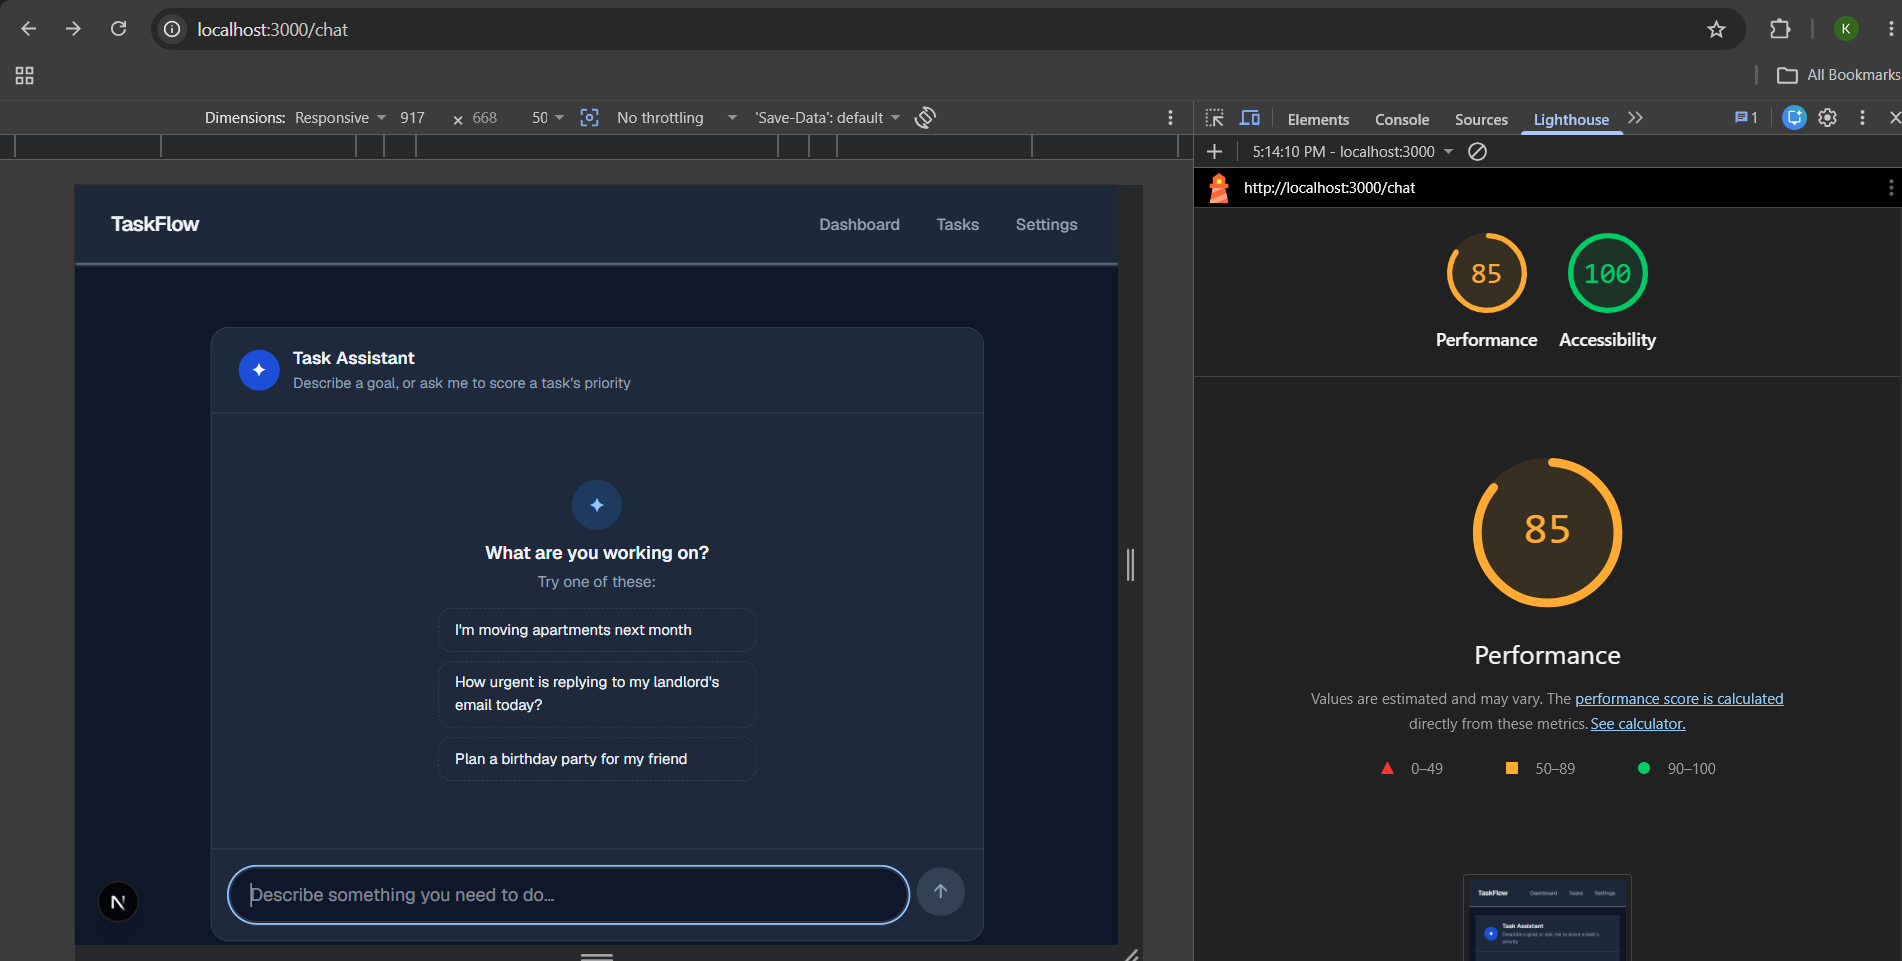
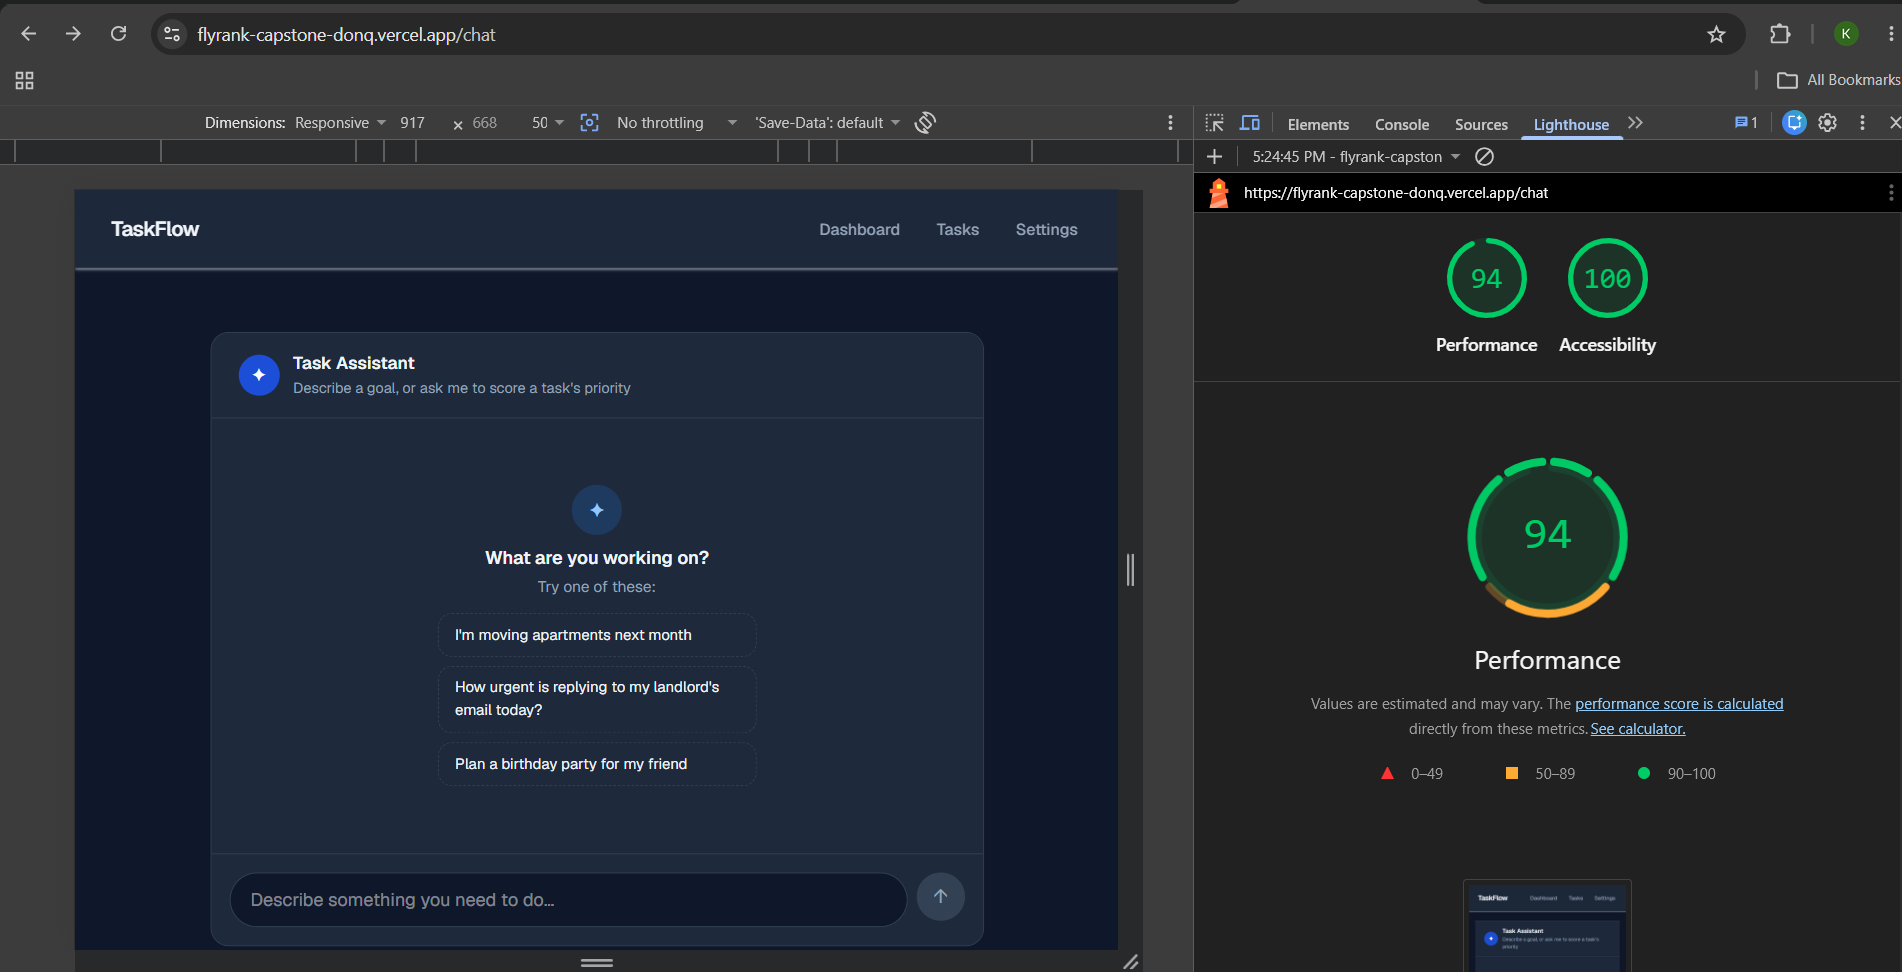
Add FE-10 accessibility and performance audit

diff --git a/capstone-task-manager/AUDIT.md b/capstone-task-manager/AUDIT.md
@@ -1,0 +1,116 @@
+# FE-10: Accessibility and Performance Audit
+
+**App audited:** TaskFlow (capstone-task-manager)
+**Live URL:** https://flyrank-capstone-donq.vercel.app
+**Pages audited:** Dashboard (`/`) and Chat (`/chat`)
+**Tools used:** Lighthouse (Mobile preset, Chrome DevTools), WAVE (WebAIM browser extension), manual keyboard-only pass
+
+---
+
+## 1. Baseline (before)
+
+| Page | Lighthouse Performance | Lighthouse Accessibility | WAVE Errors | WAVE Alerts |
+|---|---|---|---|---|
+| Dashboard | 97 | 95 | 0 | 4 (3 contrast, 1 heading×3 counted separately, 1 redundant link) |
+| Chat | 87 | 100 | 1 | 2 |
+
+Screenshots: `audit/audit-before-lighthouse-home.png`, `audit/before-lighthouse-chat.png`, `audit/before-wave-home.png`, `audit/before-wave-chat.png`
+
+### Issues found
+
+**Dashboard — 3 contrast errors (WAVE):**
+1. "Chat with AI Assistant" button — white text on `var(--accent)` background, 3.68:1 (needs 4.5:1)
+2. "Dashboard" active nav pill — text on accent-soft background, 3.12:1
+3. "OVERVIEW" eyebrow label — accent-colored text on surface background, 3.97:1
+
+Root cause: a single `--accent` CSS variable (dark mode: `#3b82f6`) was being reused both as a *text* color (needs to be lighter for sufficient contrast against dark backgrounds) and as a *solid button background* under white text (needs to be darker for white text to read clearly). No single color value can satisfy both WCAG AA thresholds simultaneously — this was confirmed with contrast-ratio math before choosing replacement colors.
+
+**Dashboard — 1 redundant link alert (WAVE):** the "TaskFlow" logo and the "Dashboard" nav item are adjacent links pointing to the same URL (`/`).
+
+**Dashboard — 3 "possible heading" alerts (WAVE):** the bold `0` values under Total Tasks / Completed / Pending read visually like headings but aren't marked up with heading tags.
+
+**Chat — 1 missing form label error (WAVE):** the message input had only a `placeholder`, no accessible name (`aria-label`, `id`+`<label>`, or `aria-labelledby`).
+
+**Chat — no `aria-live` region:** streamed assistant responses were not announced to screen reader users as they arrived (an explicit FE-10 requirement for AI-specific accessibility).
+
+**Chat — 1 "no heading structure" alert (WAVE):** unlike the Dashboard (which has an `<h1>Dashboard</h1>`), the Chat page has no heading at all.
+
+---
+
+## 2. Fixes applied
+
+### Contrast (Dashboard, 3 errors → 0)
+Split the single `--accent` variable into two purpose-built variables in `app/globals.css`:
+- `--accent` (dark mode: `#93c5fd`) — kept for text-only usage (labels, icons, borders), now with enough luminance to read clearly against dark backgrounds and surfaces.
+- `--accent-solid` (dark mode: `#1d4ed8`) — new variable for solid backgrounds paired with white text (buttons, avatars, active states), dark enough that white text clears 4.5:1 comfortably (~6.7:1).
+
+Every CSS rule that used `var(--accent)` as a **background** under white text was switched to `var(--accent-solid)`: `.dashboard-chat-link`, `.chat-header-icon`, `.chat-avatar-assistant`, `.chat-message-user .chat-bubble`, `.chat-send-button`, `.tool-confirm-yes`, `.mbtn` (and its loading state). One additional instance was found and fixed directly in `app/page.tsx`, where the dashboard CTA button used a Tailwind arbitrary-value class (`bg-[var(--accent)]`) outside the shared CSS file — updated to `bg-[var(--accent-solid)]`.
+
+Light mode was unaffected (its existing accent color already cleared both contrast checks) — a matching `--accent-solid` variable was added there too, set equal to the existing accent, purely for consistency across the codebase.
+
+### Redundant link (Dashboard)
+Added `aria-hidden="true"` and `tabIndex={-1}` to the "TaskFlow" logo link in `TopNav.tsx`, since the adjacent "Dashboard" nav item already provides a properly labeled, keyboard-reachable path to the same destination. This removes the duplicate from the accessibility tree and tab order while leaving the logo visually and functionally unchanged for mouse users.
+
+*Note:* WAVE continued to flag this after the fix, because the link is still present in the DOM (just hidden from assistive tech). We're documenting this as **justified** rather than pursuing further changes: the actual accessibility impact is zero, since a screen reader or keyboard user can no longer reach or hear the duplicate link — this is standard practice on the vast majority of production sites (logo linking home + a "Home"/"Dashboard" nav item).
+
+### Missing form label (Chat, 1 error → 0)
+Added `aria-label="Describe something you need to do"` to the chat message `<input>` in `components/Chat.tsx`, matching its placeholder text so the accessible name and visible text stay in sync.
+
+### Streamed output announced politely (AI-specific accessibility)
+Added `role="log"`, `aria-live="polite"`, `aria-atomic="false"`, and `aria-relevant="additions text"` to the message-list container in `components/Chat.tsx`. This means:
+- New messages and in-progress streaming text are announced to screen reader users automatically.
+- `polite` ensures announcements wait for a natural pause rather than interrupting the user mid-action.
+- `aria-atomic="false"` means only the *new* text is announced, not the entire conversation history re-read on every update.
+
+### Keyboard-reachable stop button
+Already implemented correctly before this audit: the Stop button (shown while a response is streaming) is a real `<button type="button">` with `aria-label="Stop generating"`, and was confirmed reachable and operable via `Tab` + `Enter`/`Space` during the manual keyboard pass below. No change needed.
+
+### Not fixed — documented as justified (alerts only)
+- **3 "possible heading" alerts** (Dashboard stat numbers) and **1 "no heading structure" alert** (Chat page) remain. These are WAVE *alerts*, not errors, and the assignment rubric explicitly allows alerts to be "fixed or justified." Given time constraints, these were deprioritized after the higher-impact fixes (contrast, missing label, aria-live) — they don't block screen reader users from understanding or using either page, since all interactive content is still properly labeled and operable. Flagged here as known follow-up work rather than silently left out.
+
+---
+
+## 3. Manual keyboard-only pass
+
+Tested on the live production URL, no mouse used at any point.
+
+- Tabbed from page load through the Dashboard: nav links, stat cards, and the "Chat with AI Assistant" button all received a clearly visible focus outline, in a logical top-to-bottom / left-to-right order.
+- Reached and activated the Chat link via `Tab` + `Enter`.
+- On the Chat page, tabbed to the message input, typed a message, and submitted with `Enter`.
+- While the response was streaming, tabbed to the **Stop** button and successfully activated it with the keyboard alone.
+- Result: the primary flow (navigate → open chat → send a message → stop a streaming response) is fully completable by keyboard alone, with visible focus indicators at every step.
+
+---
+
+## 4. After
+
+| Page | Lighthouse Performance | Lighthouse Accessibility | WAVE Errors | WAVE Alerts |
+|---|---|---|---|---|
+| Dashboard | 96 | **100** | **0** | 4 (unchanged — all justified above) |
+| Chat | 94 | **100** | **0** | 2 (unchanged — justified above) |
+
+Screenshots: `audit/after-lighthouse-home.png`, `audit/after-lighthouse-chat.png`, `audit/after-wave-home.png`, `audit/after-wave-chat.png`
+
+### Deltas
+- Dashboard Accessibility: 95 → **100** (+5)
+- Chat Accessibility: 100 → **100** (already perfect; missing-label error fixed without regressing the score)
+- Chat Performance: 87 → **94** (+7 — likely noise/variance from the small DOM/CSS changes rather than a deliberate optimization, but confirms the accessibility fixes cost nothing on the performance budget)
+- Dashboard Performance: 97 → 96 (−1, within normal Lighthouse run-to-run variance)
+- WAVE Errors (both pages combined): 1 → **0**
+- WAVE Contrast Errors (Dashboard): 3 → **0**
+
+Both pages now clear the 90+ target (not just the 80 minimum) on every measured metric.
+
+---
+
+## 5. Bonus fix found during this audit
+
+While testing the primary chat flow for the keyboard pass, discovered that chat was completely non-functional in production: the app was calling `llama-3.3-70b-versatile`, a Groq model deprecated on June 17, 2026. Traced via Vercel's runtime logs (`Error [AI_APICallError]`), confirmed against Groq's current model list, and fixed by switching to `openai/gpt-oss-120b` in `lib/ai/config.ts`. This was necessary to be able to test the "primary flow, chat included" requirement at all — without it, there was no way to reach the streaming/stop-button states this audit needed to check.
+
+---
+
+## 6. What I'd do with more time
+
+- Add proper heading structure to the Chat page (currently has none) and convert the Dashboard's bold stat numbers into real `<h2>`/`<h3>` elements so screen reader users can navigate by heading.
+- Run a second manual pass with an actual screen reader (NVDA or VoiceOver) rather than relying solely on WAVE's static analysis, since WAVE can't verify that the `aria-live` region is announced at a sensible pace during real streaming.
+- Add automated Lighthouse CI (per the linked docs) so contrast/performance regressions are caught before merge, not after manual audit.
